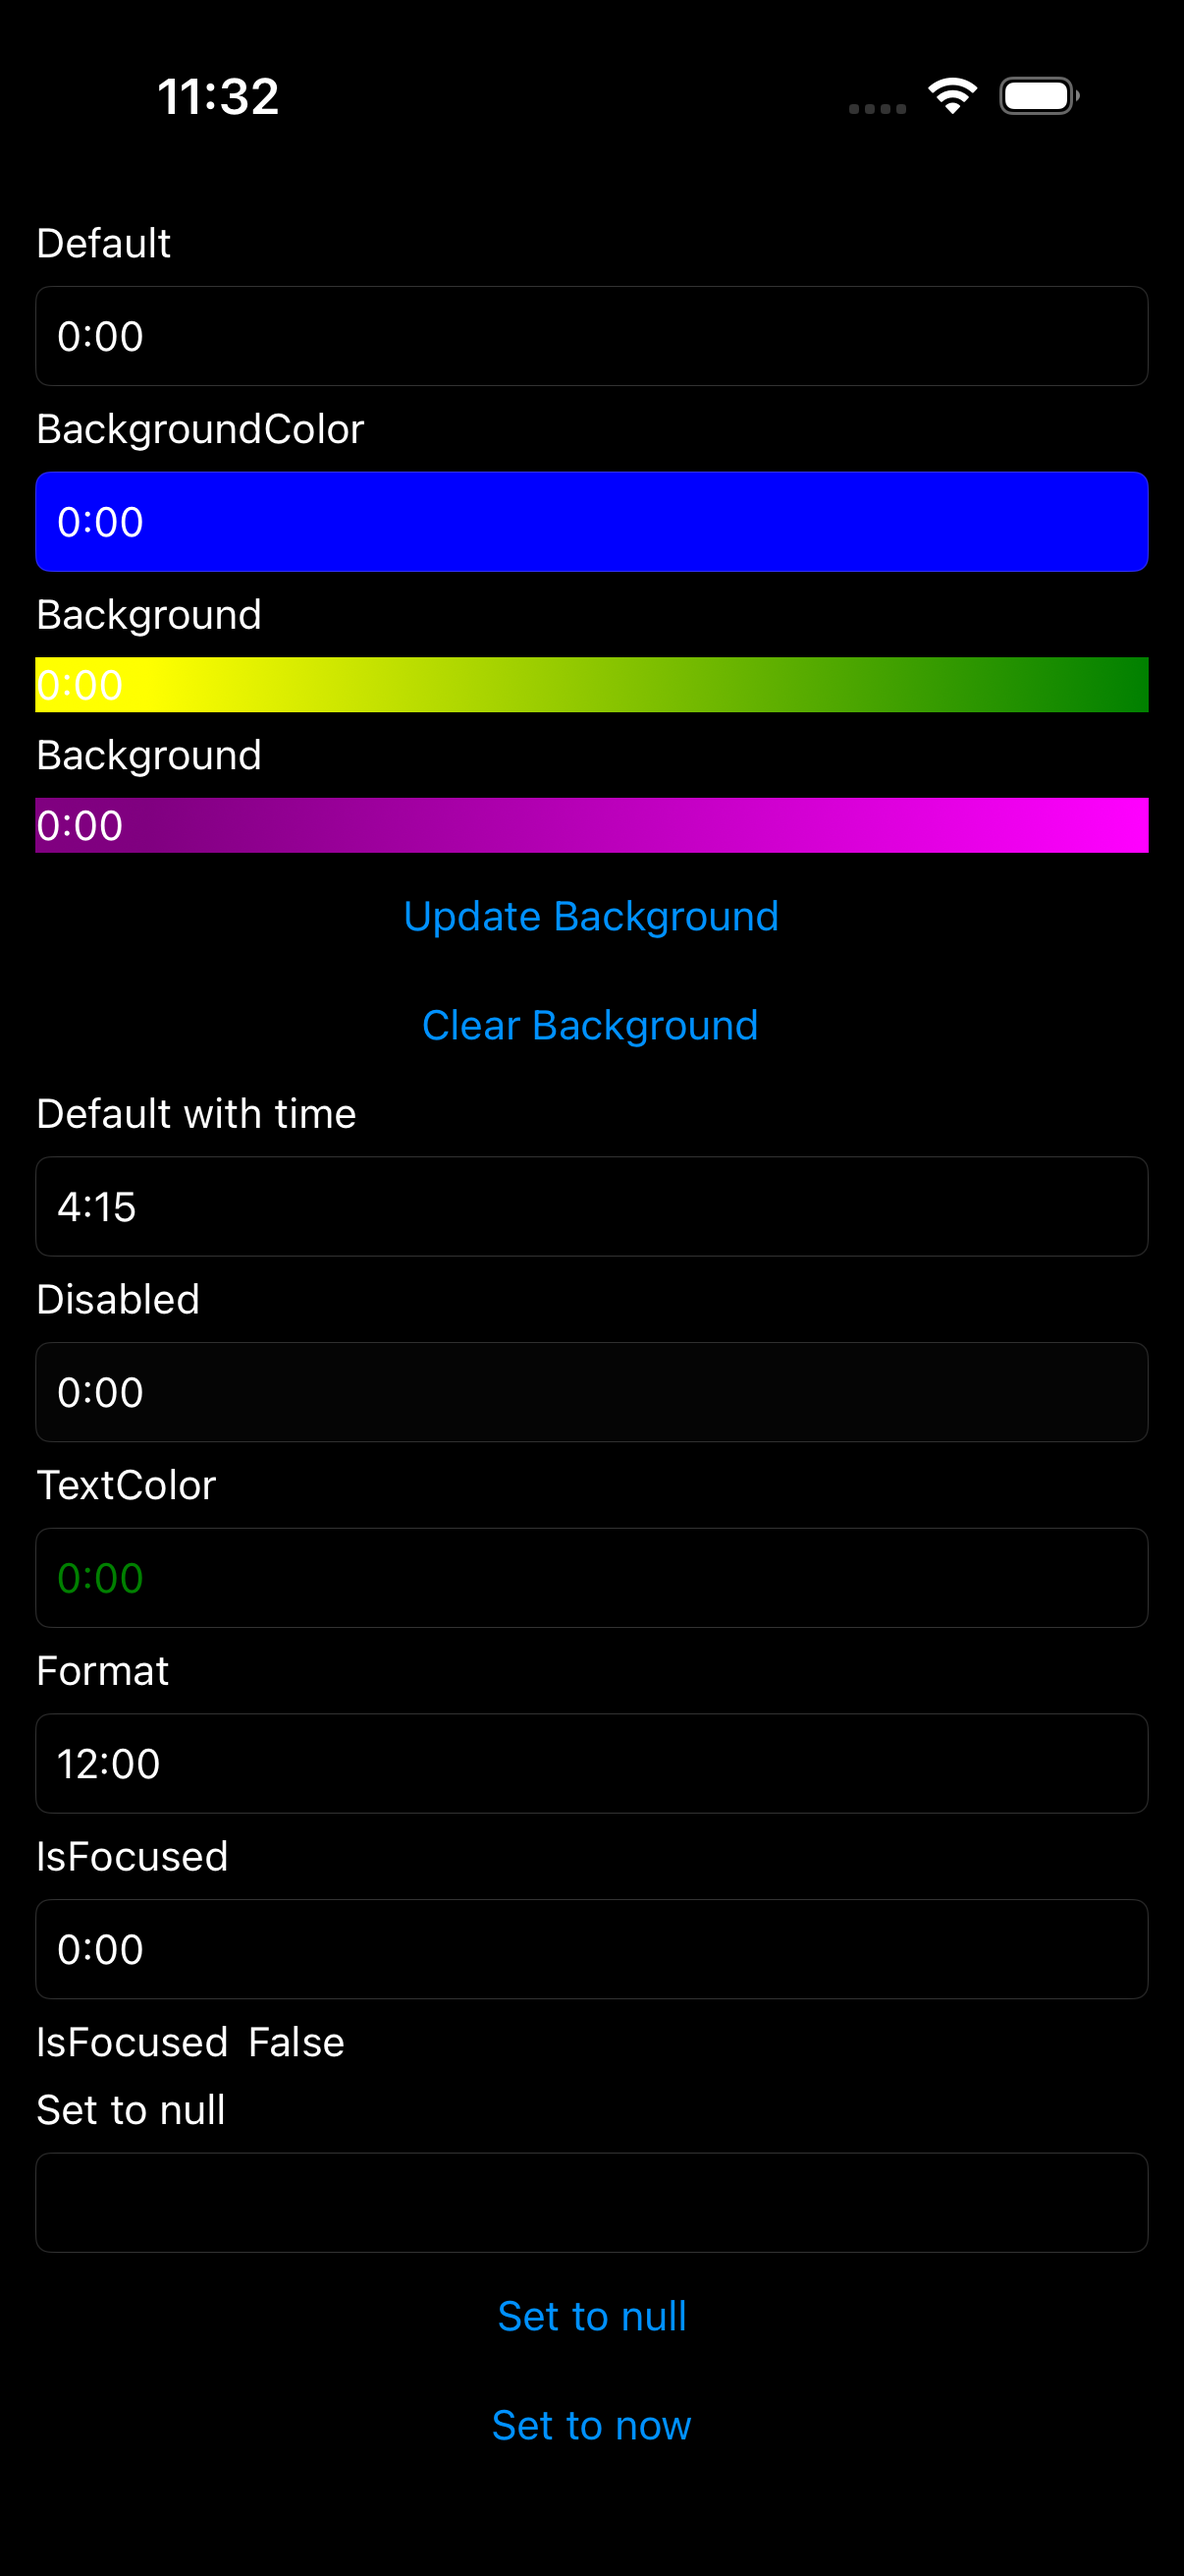
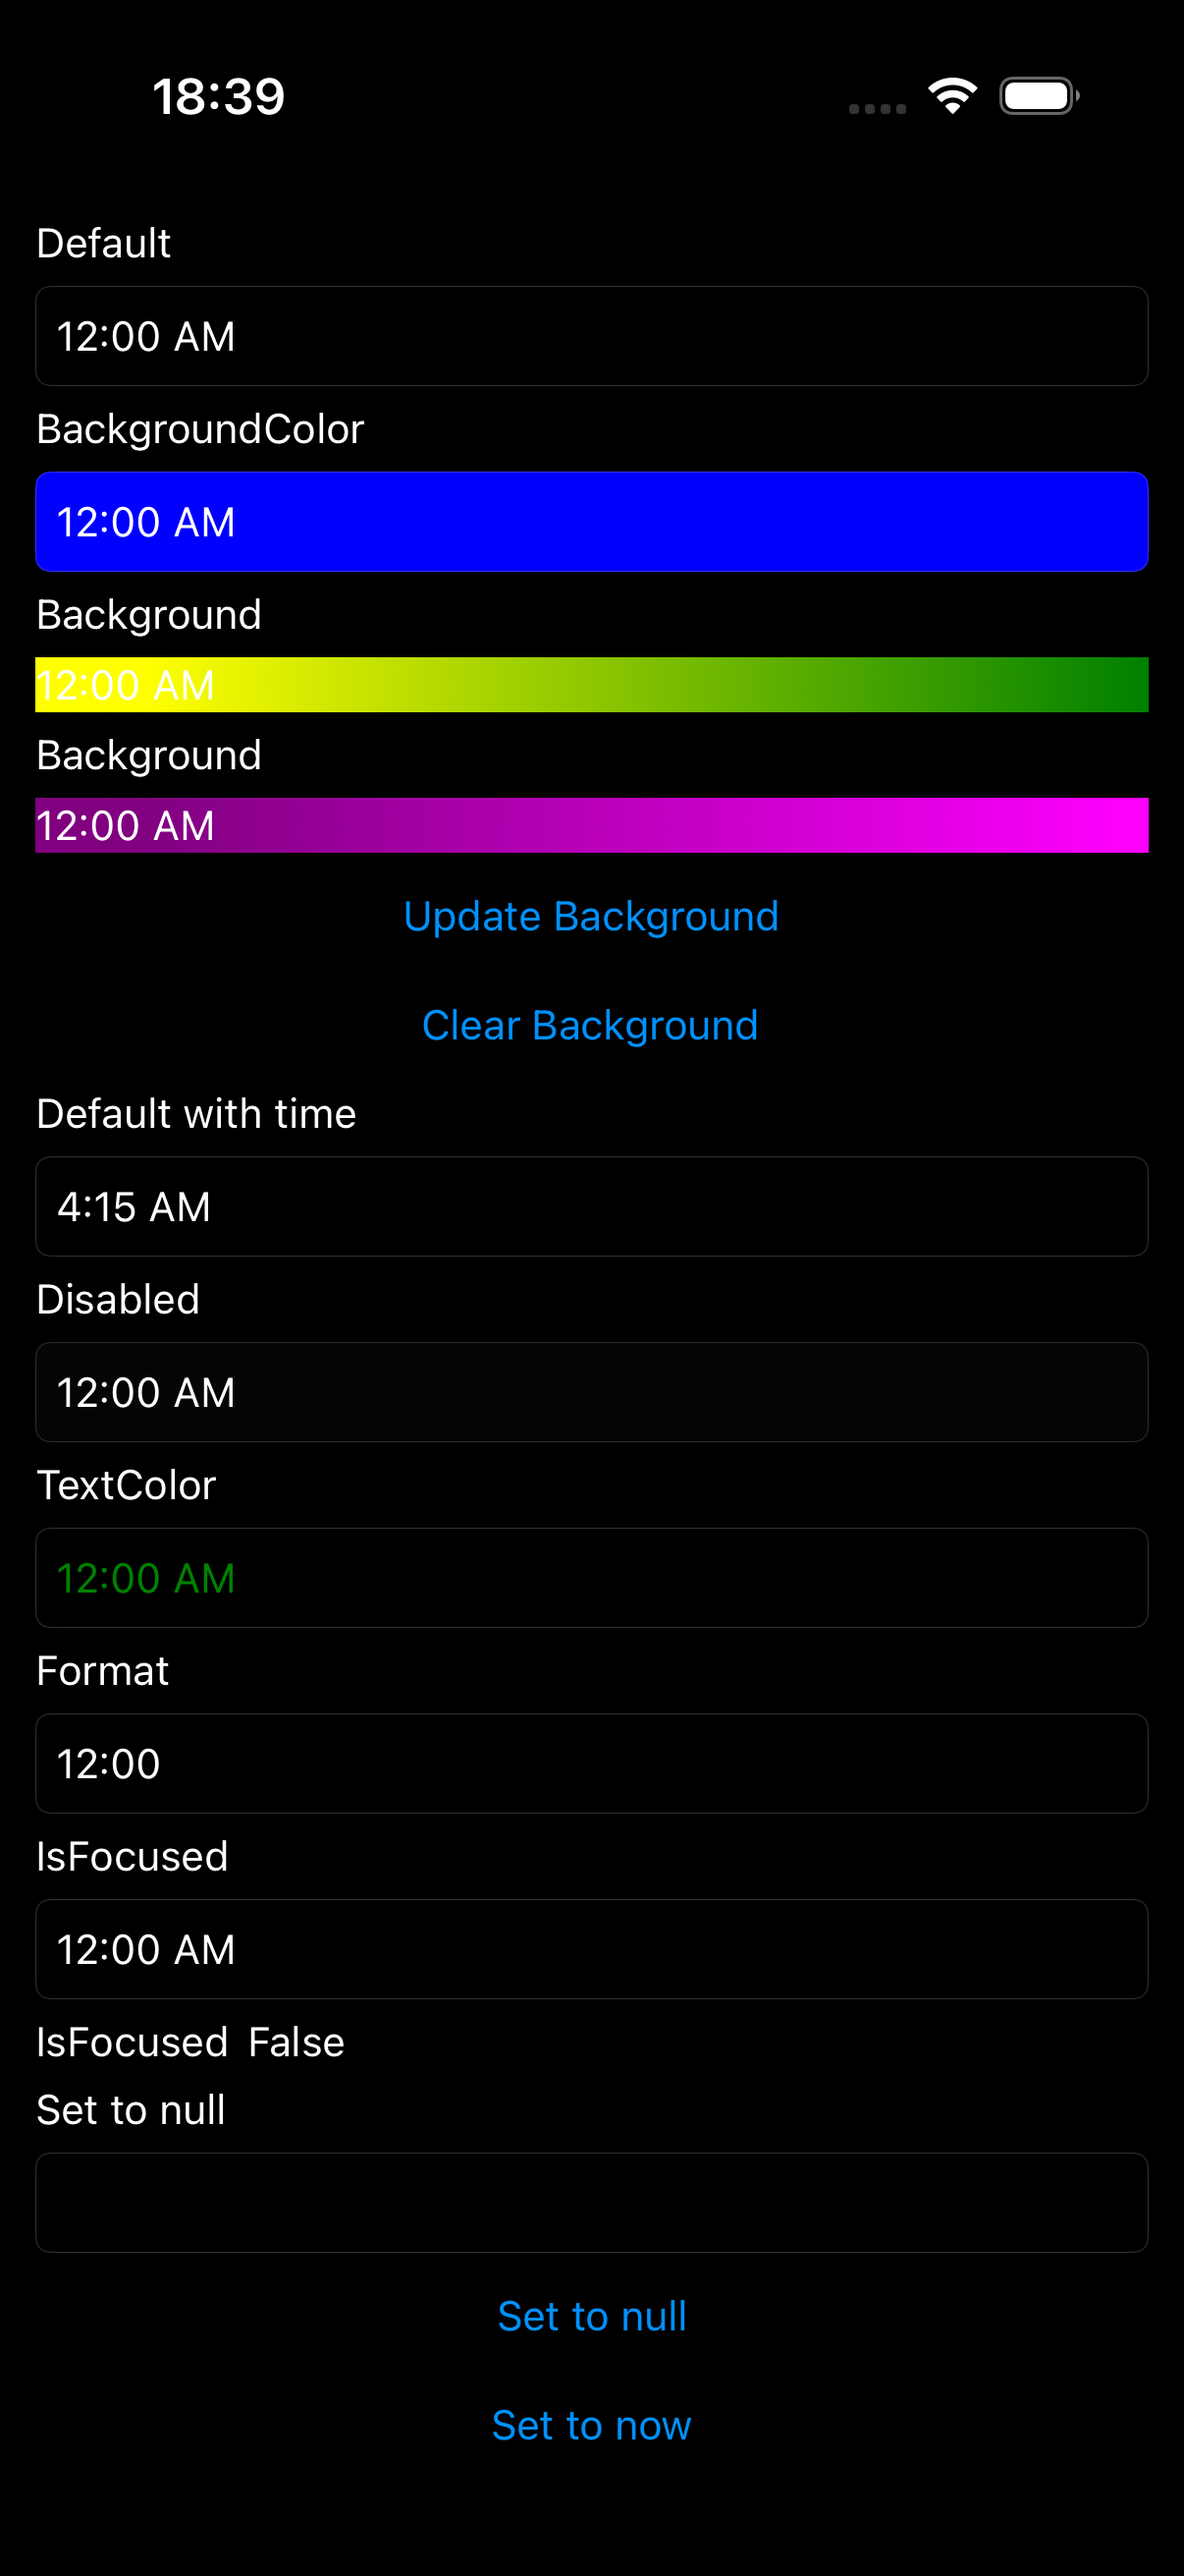
fix(time_picker/ios): render default time via .NET-culture format_time_span (12h), not NSDateFormatter device-locale; green ios (166)
MAUI iOS sets the TimePicker field text via TimeExtensions.ToFormattedString =
DateTime.Today.Add(time).ToString(format, Culture.CurrentCulture) — the .NET short-time
pattern (en-US 12h '12:00 AM'). The port's iOS handler instead formatted empty/'t'/'T' via
NSDateFormatter/currentLocale (the device REGION's 24h form '0:00'), diverging from MAUI
AND from the android/headless backends (which use format_time_span). Aligned update_time to
format_time_span (the .NET-culture-equivalent renderer) + removed the dead
localized_default_time. Explicit Format='HH:mm' still renders '12:00'; maccatalyst (separate
native-UIDatePicker path, !TARGET_OS_MACCATALYST) verified unchanged.

diff --git a/port/cpp/src/platform/ios/time_picker_handler.mm b/port/cpp/src/platform/ios/time_picker_handler.mm
@@ -142,23 +142,6 @@ namespace
         return (__bridge UITextField*)native;
     }
 
-    // Real MAUI (net10.0-iOS) renders the STANDARD time specifiers in the DEVICE locale via NSDateFormatter:
-    // the default/empty/"t" short time → 24h "14:00" on a 24h-locale device (NOT the en-US "2:00 PM" the
-    // invariant format_time_span would produce), and "T" → the medium (with-seconds) style. Verified against
-    // the maui-compare reference (ios_time_picker shows "14:00", the main time_picker "Default" shows "0:00").
-    // Custom patterns ("hh:mm", "HH:mm", …) keep format_time_span — their letters are locale-agnostic. The
-    // formatter's locale defaults to currentLocale; TimeZone is pinned to GMT0 to match how the wheel maps the
-    // time-of-day (UTC) — the analogue of the date handler's localized_default_date.
-    std::string localized_default_time(const maui::core::time_span& value, NSDateFormatterStyle style)
-    {
-        NSDateFormatter* const formatter = [[NSDateFormatter alloc] init];
-        formatter.timeZone = [NSTimeZone timeZoneForSecondsFromGMT:0];
-        formatter.dateStyle = NSDateFormatterNoStyle;
-        formatter.timeStyle = style;
-        NSString* const text = [formatter stringFromDate:maui::platform::apple_shared::to_ns_date(value)];
-        return text != nil ? std::string(text.UTF8String) : std::string{};
-    }
-
     UIDatePicker* wheel_of(UITextField* field)
     {
         return [field.inputView isKindOfClass:[UIDatePicker class]] ? (UIDatePicker*)field.inputView : nil;
@@ -202,22 +185,14 @@ namespace
             field.text = @"";
             return;
         }
-        // Standard specifiers (empty/"t"/"T") → device-locale via NSDateFormatter, matching real MAUI; custom
-        // patterns keep the invariant format_time_span (their letters are locale-agnostic).
-        const std::string_view format = view.format();
-        std::string text;
-        if (format.empty() || format == "t")
-        {
-            text = localized_default_time(*time, NSDateFormatterShortStyle);
-        }
-        else if (format == "T")
-        {
-            text = localized_default_time(*time, NSDateFormatterMediumStyle);
-        }
-        else
-        {
-            text = maui::core::format_time_span(*time, format);
-        }
+        // TimePickerExtensions.UpdateTime → MauiTimePicker.UpdateTime sets Text = time.ToFormattedString(
+        // format) = DateTime.Today.Add(time).ToString(format, Culture.CurrentCulture): an empty/"t"/"T" format
+        // resolves through the culture's short/long-time pattern. format_time_span is the port's
+        // .NET-culture-equivalent (invariant/en-US) renderer the android + headless backends already use —
+        // empty/"t" → "h:mm tt" (12h), matching the maui-reference. (Previously the empty/"t"/"T" arms used
+        // NSDateFormatter/currentLocale, which renders the DEVICE-region 24h form and diverged both from MAUI's
+        // .NET-culture 12h render and from the port's other backends.)
+        const std::string text = maui::core::format_time_span(*time, std::string(view.format()));
         field.text = [NSString stringWithUTF8String:text.c_str()];
     }
 #endif // TARGET_OS_MACCATALYST

diff --git a/port/cpp/docs/comparison/README.md b/port/cpp/docs/comparison/README.md
@@ -11,8 +11,8 @@ Real .NET MAUI (native-default) vs the C++ port vs the compile-time-XAML gallery
 
 | Classification | Sonnet 5 | Gemini |
 | --- | --- | --- |
-| 🟢 Match | 165 | 0 |
-| 🟡 Minor | 6 | 0 |
+| 🟢 Match | 166 | 0 |
+| 🟡 Minor | 5 | 0 |
 | 🔴 Major | 0 | 0 |
 | ⬛ Blank | 1 | 0 |
 | ⏳ Unreviewed | 23 | 195 |
@@ -3414,16 +3414,16 @@ _Not yet reviewed._
 
 _Not yet computed — no automated pixel-diff score is recorded for this page yet._
 
-### 182. Time Picker — 🟡/⏳
+### 182. Time Picker — 🟢/⏳
 <sub>time_picker</sub>
 
 <table><tr><th></th><th>MAUI</th><th>C++</th><th>C++ &amp; XAML</th></tr><tr><th>Light</th><td><img width="300px" src="../../../maui-reference/captures/ios/time_picker_light.png" /></td><td><img width="300px" src="captures/ios/cpp/time_picker_light.png" /></td><td><img width="300px" src="captures/ios/xaml/time_picker_light.png" /></td></tr><tr><th>Dark</th><td><img width="300px" src="../../../maui-reference/captures/ios/time_picker_dark.png" /></td><td><img width="300px" src="captures/ios/cpp/time_picker_dark.png" /></td><td><img width="300px" src="captures/ios/xaml/time_picker_dark.png" /></td></tr></table>
 
 ports TimePickerPage.xaml (+ TimePickerPage.xaml.cs)
 
-#### 🟡 Sonnet 5 Review
+#### 🟢 Sonnet 5 Review
 
-Layout, colors, gradients and backgrounds all match in both themes; only difference is default time-format text: MAUI shows 12-hour AM/PM while cpp shows 24-hour format, a content/locale-format difference.
+Match in both themes. The default TimePicker text now renders 12-hour "12:00 AM" / "4:15 AM" (was 24-hour "0:00" / "4:15"), matching MAUI. Root cause + fix: the iOS handler's empty/"t"/"T" arms formatted via NSDateFormatter/currentLocale (the DEVICE region's 24h form), but MAUI iOS sets the field text via TimeExtensions.ToFormattedString = DateTime.Today.Add(time).ToString(format, Culture.CurrentCulture) — the .NET-culture short-time pattern (en-US 12h). Switched to the port's format_time_span helper (the .NET-culture-equivalent renderer android + headless already use), so empty/"t" -&gt; "h:mm tt". The explicit Format="HH:mm" picker still shows "12:00". maccatalyst (separate native-UIDatePicker path) unchanged.
 
 #### ⏳ Gemini Review
 
